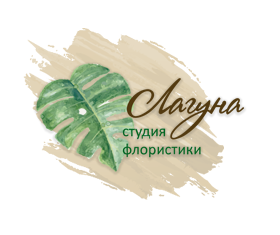
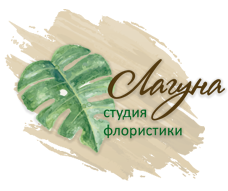
ghfgh
fghg

diff --git a/oplata.html b/oplata.html
@@ -29,7 +29,7 @@
                                         <i class="svg svg-phone">
                                         </i>
                                         <a class="roistat-phone" href="tel:+7981456218" rel="nofollow">
-                                            +7 (981) 45-62-18 
+                                            &phone; +7 (981) 45-62-18 
                                         </a>
                                         <a class="roistat-call vrvzakaz modalbox" href="#call" rel="nofollow">
                                             Заказать звонок 
@@ -127,7 +127,7 @@
         <div class="wrapper">
             <div class="box">
                 <div class="circle">
-                    <img alt="" src="img/logo.png">
+                    <img alt="" src="img/pay_icons.png">
                     </img>
                 </div>
                 ЗАКАЗАТЬ
@@ -135,14 +135,14 @@
             </div>
             <div class="box">
                 <div>
-                    <img alt="" src="img/logo.png">
+                    <img alt="" src="img/pay_icons.png">
                     </img>
                 </div>
                 ОПЛАТИТЬ
             </div>
             <div class="box">
                 <div>
-                    <img alt="" src="img/logo.png">
+                    <img alt="" src="img/pay_icons.png">
                     </img>
                 </div>
                 ПОЛУЧИТЬ

diff --git a/akcii.html b/akcii.html
@@ -29,7 +29,7 @@
                                         <i class="svg svg-phone">
                                         </i>
                                         <a class="roistat-phone" href="tel:+7981456218" rel="nofollow">
-                                            +7 (981) 45-62-18 
+                                            &phone; +7 (981) 45-62-18 
                                         </a>
                                         <a class="roistat-call vrvzakaz modalbox" href="#call" rel="nofollow">
                                             Заказать звонок 

diff --git a/company.html b/company.html
@@ -29,7 +29,7 @@
                                         <i class="svg svg-phone">
                                         </i>
                                         <a class="roistat-phone" href="tel:+7981456218" rel="nofollow">
-                                            +7 (981) 45-62-18 
+                                            &phone; +7 (981) 45-62-18 
                                         </a>
                                         <a class="roistat-call vrvzakaz modalbox" href="#call" rel="nofollow">
                                             Заказать звонок 

diff --git a/compos.html b/compos.html
@@ -33,7 +33,7 @@
                                         <i class="svg svg-phone">
                                         </i>
                                         <a class="roistat-phone" href="tel:+7981456218" rel="nofollow">
-                                            +7 (981) 45-62-18 
+                                            &phone; +7 (981) 45-62-18 
                                         </a>
                                         <a class="roistat-call vrvzakaz modalbox" href="#call" rel="nofollow">
                                             Заказать звонок 

diff --git a/contact.html b/contact.html
@@ -29,7 +29,7 @@
                                         <i class="svg svg-phone">
                                         </i>
                                         <a class="roistat-phone" href="tel:+7981456218" rel="nofollow">
-                                            +7 (981) 45-62-18 
+                                            &phone; +7 (981) 45-62-18 
                                         </a>
                                         <a class="roistat-call vrvzakaz modalbox" href="#call" rel="nofollow">
                                             Заказать звонок 

diff --git a/mono.html b/mono.html
@@ -33,7 +33,7 @@
                                         <i class="svg svg-phone">
                                         </i>
                                         <a class="roistat-phone" href="tel:+7981456218" rel="nofollow">
-                                            +7 (981) 45-62-18 
+                                            &phone; +7 (981) 45-62-18 
                                         </a>
                                         <a class="roistat-call vrvzakaz modalbox" href="#call" rel="nofollow">
                                             Заказать звонок 

diff --git a/otzyvi.html b/otzyvi.html
@@ -29,7 +29,7 @@
                                         <i class="svg svg-phone">
                                         </i>
                                         <a class="roistat-phone" href="tel:+7981456218" rel="nofollow">
-                                            +7 (981) 45-62-18 
+                                            &phone; +7 (981) 45-62-18 
                                         </a>
                                         <a class="roistat-call vrvzakaz modalbox" href="#call" rel="nofollow">
                                             Заказать звонок 

diff --git a/sbor.html b/sbor.html
@@ -35,7 +35,7 @@
                                         <i class="svg svg-phone">
                                         </i>
                                         <a class="roistat-phone" href="tel:+7981456218" rel="nofollow">
-                                            +7 (981) 45-62-18 
+                                            &phone; +7 (981) 45-62-18 
                                         </a>
                                         <a class="roistat-call vrvzakaz modalbox" href="#call" rel="nofollow">
                                             Заказать звонок 

diff --git a/zakaz.html b/zakaz.html
@@ -29,7 +29,7 @@
                                         <i class="svg svg-phone">
                                         </i>
                                         <a class="roistat-phone" href="tel:+7981456218" rel="nofollow">
-                                            +7 (981) 45-62-18 
+                                            &phone; +7 (981) 45-62-18 
                                         </a>
                                         <a class="roistat-call vrvzakaz modalbox" href="#call" rel="nofollow">
                                             Заказать звонок 

diff --git a/style.css b/style.css
@@ -125,6 +125,7 @@ header {
     /* Opera 9.6+ */
     background-size: cover;
     /* Современные браузеры */
+    max-height: 10%;
 }
 nav {
     overflow: hidden;
@@ -135,7 +136,7 @@ nav {
 .logo-box {
     float: left;
     margin-top: -3.8%;
-    margin-left: -65px;
+    margin-left: -45px;
     opacity: 0.98;
 }
 .logo {
